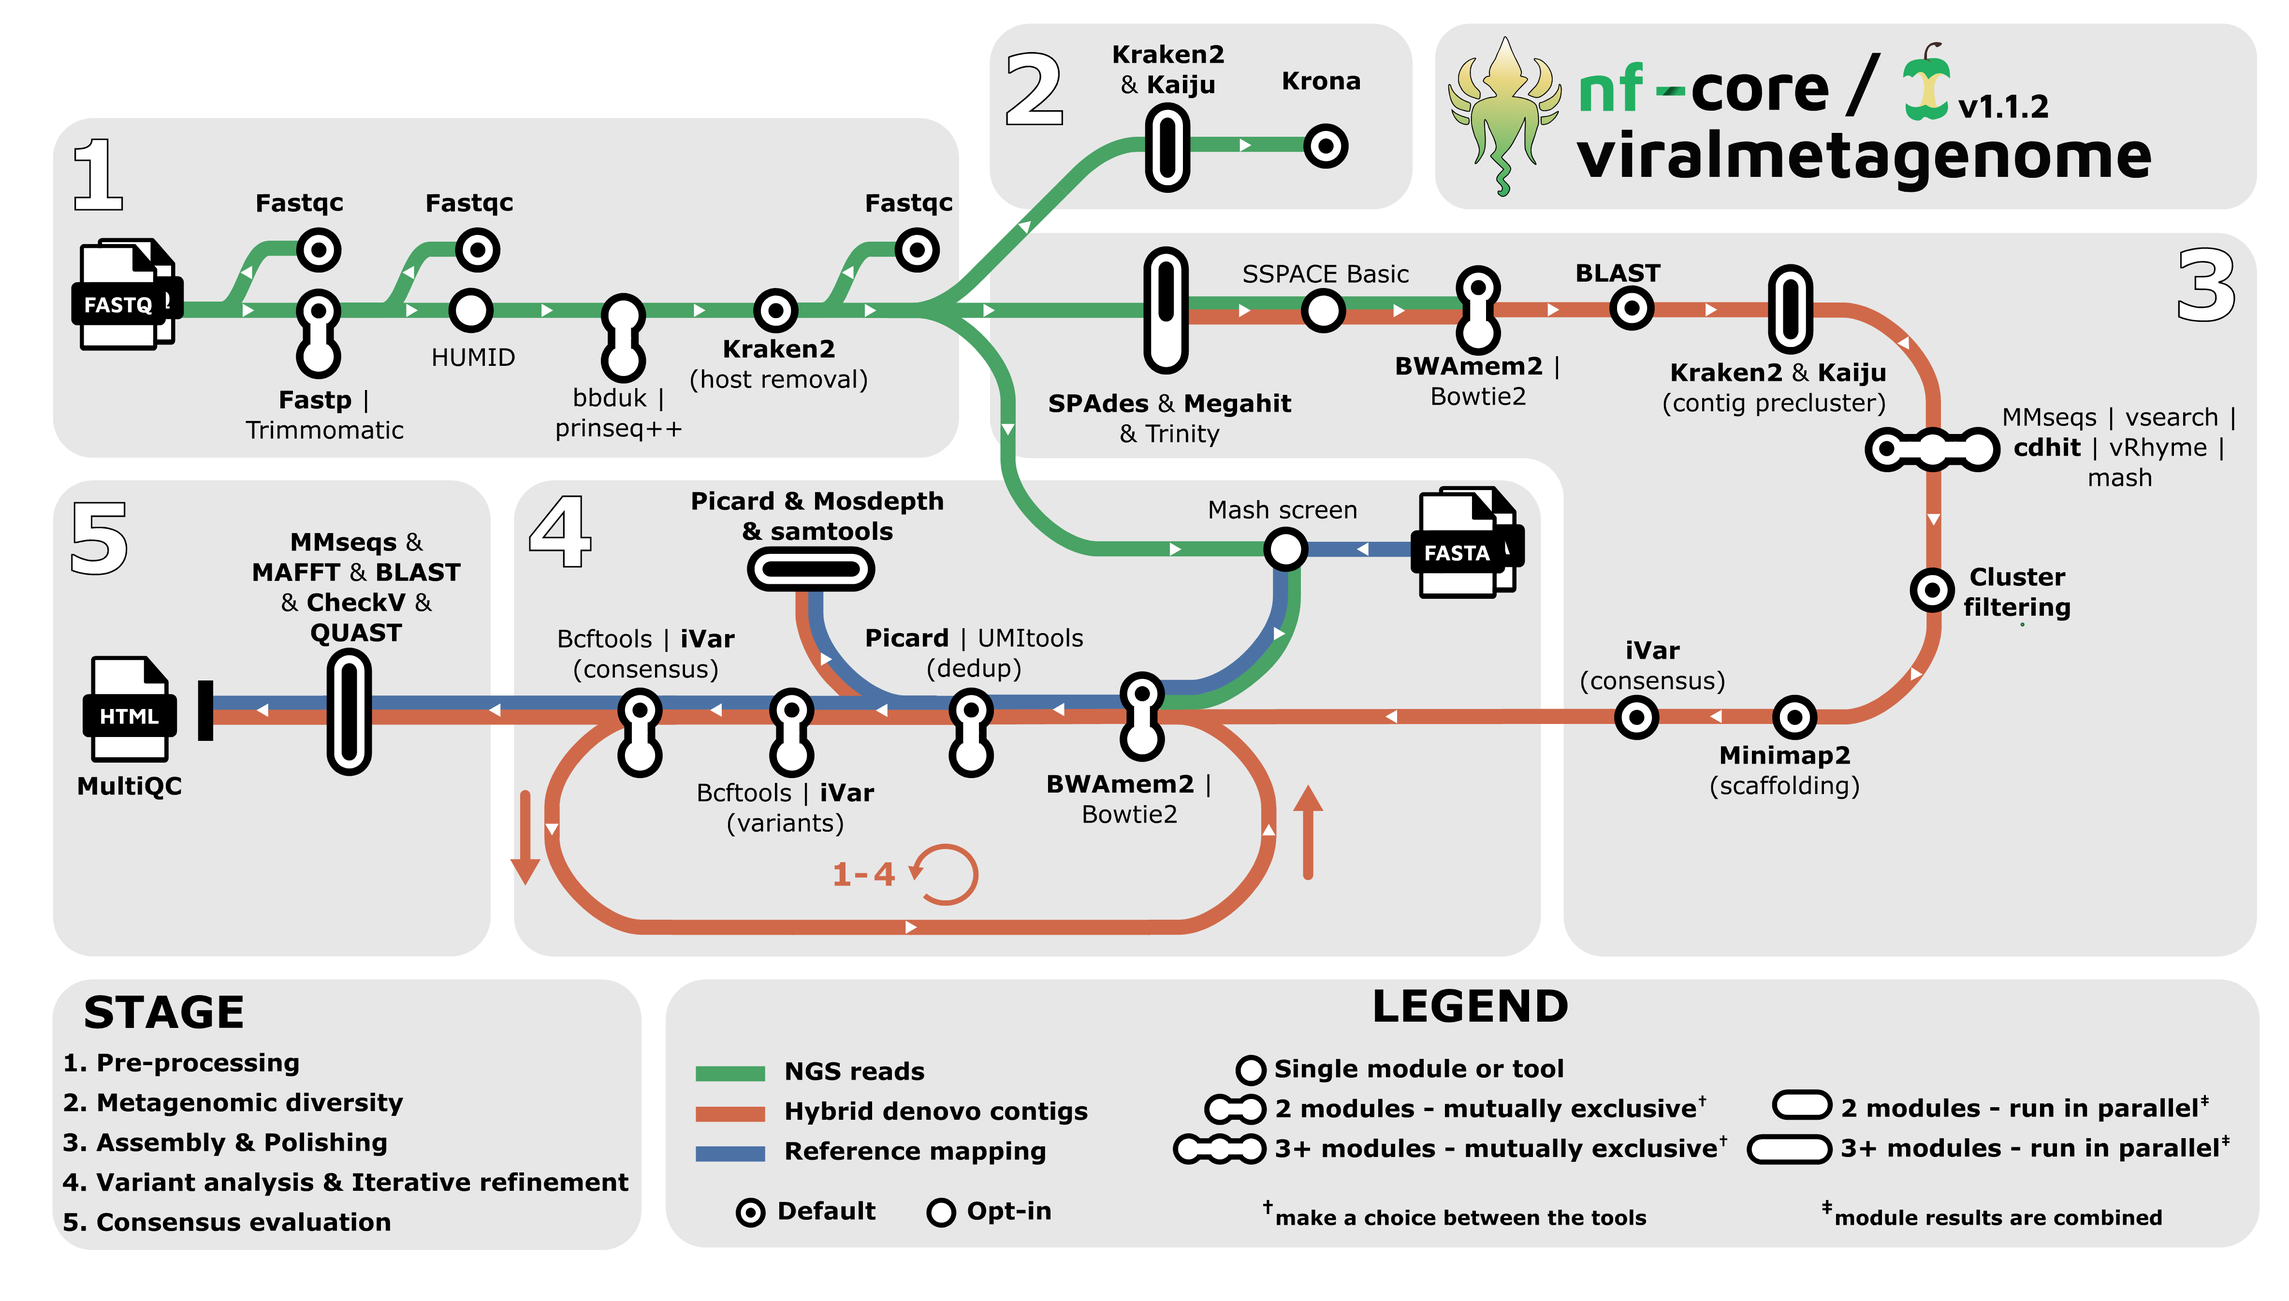
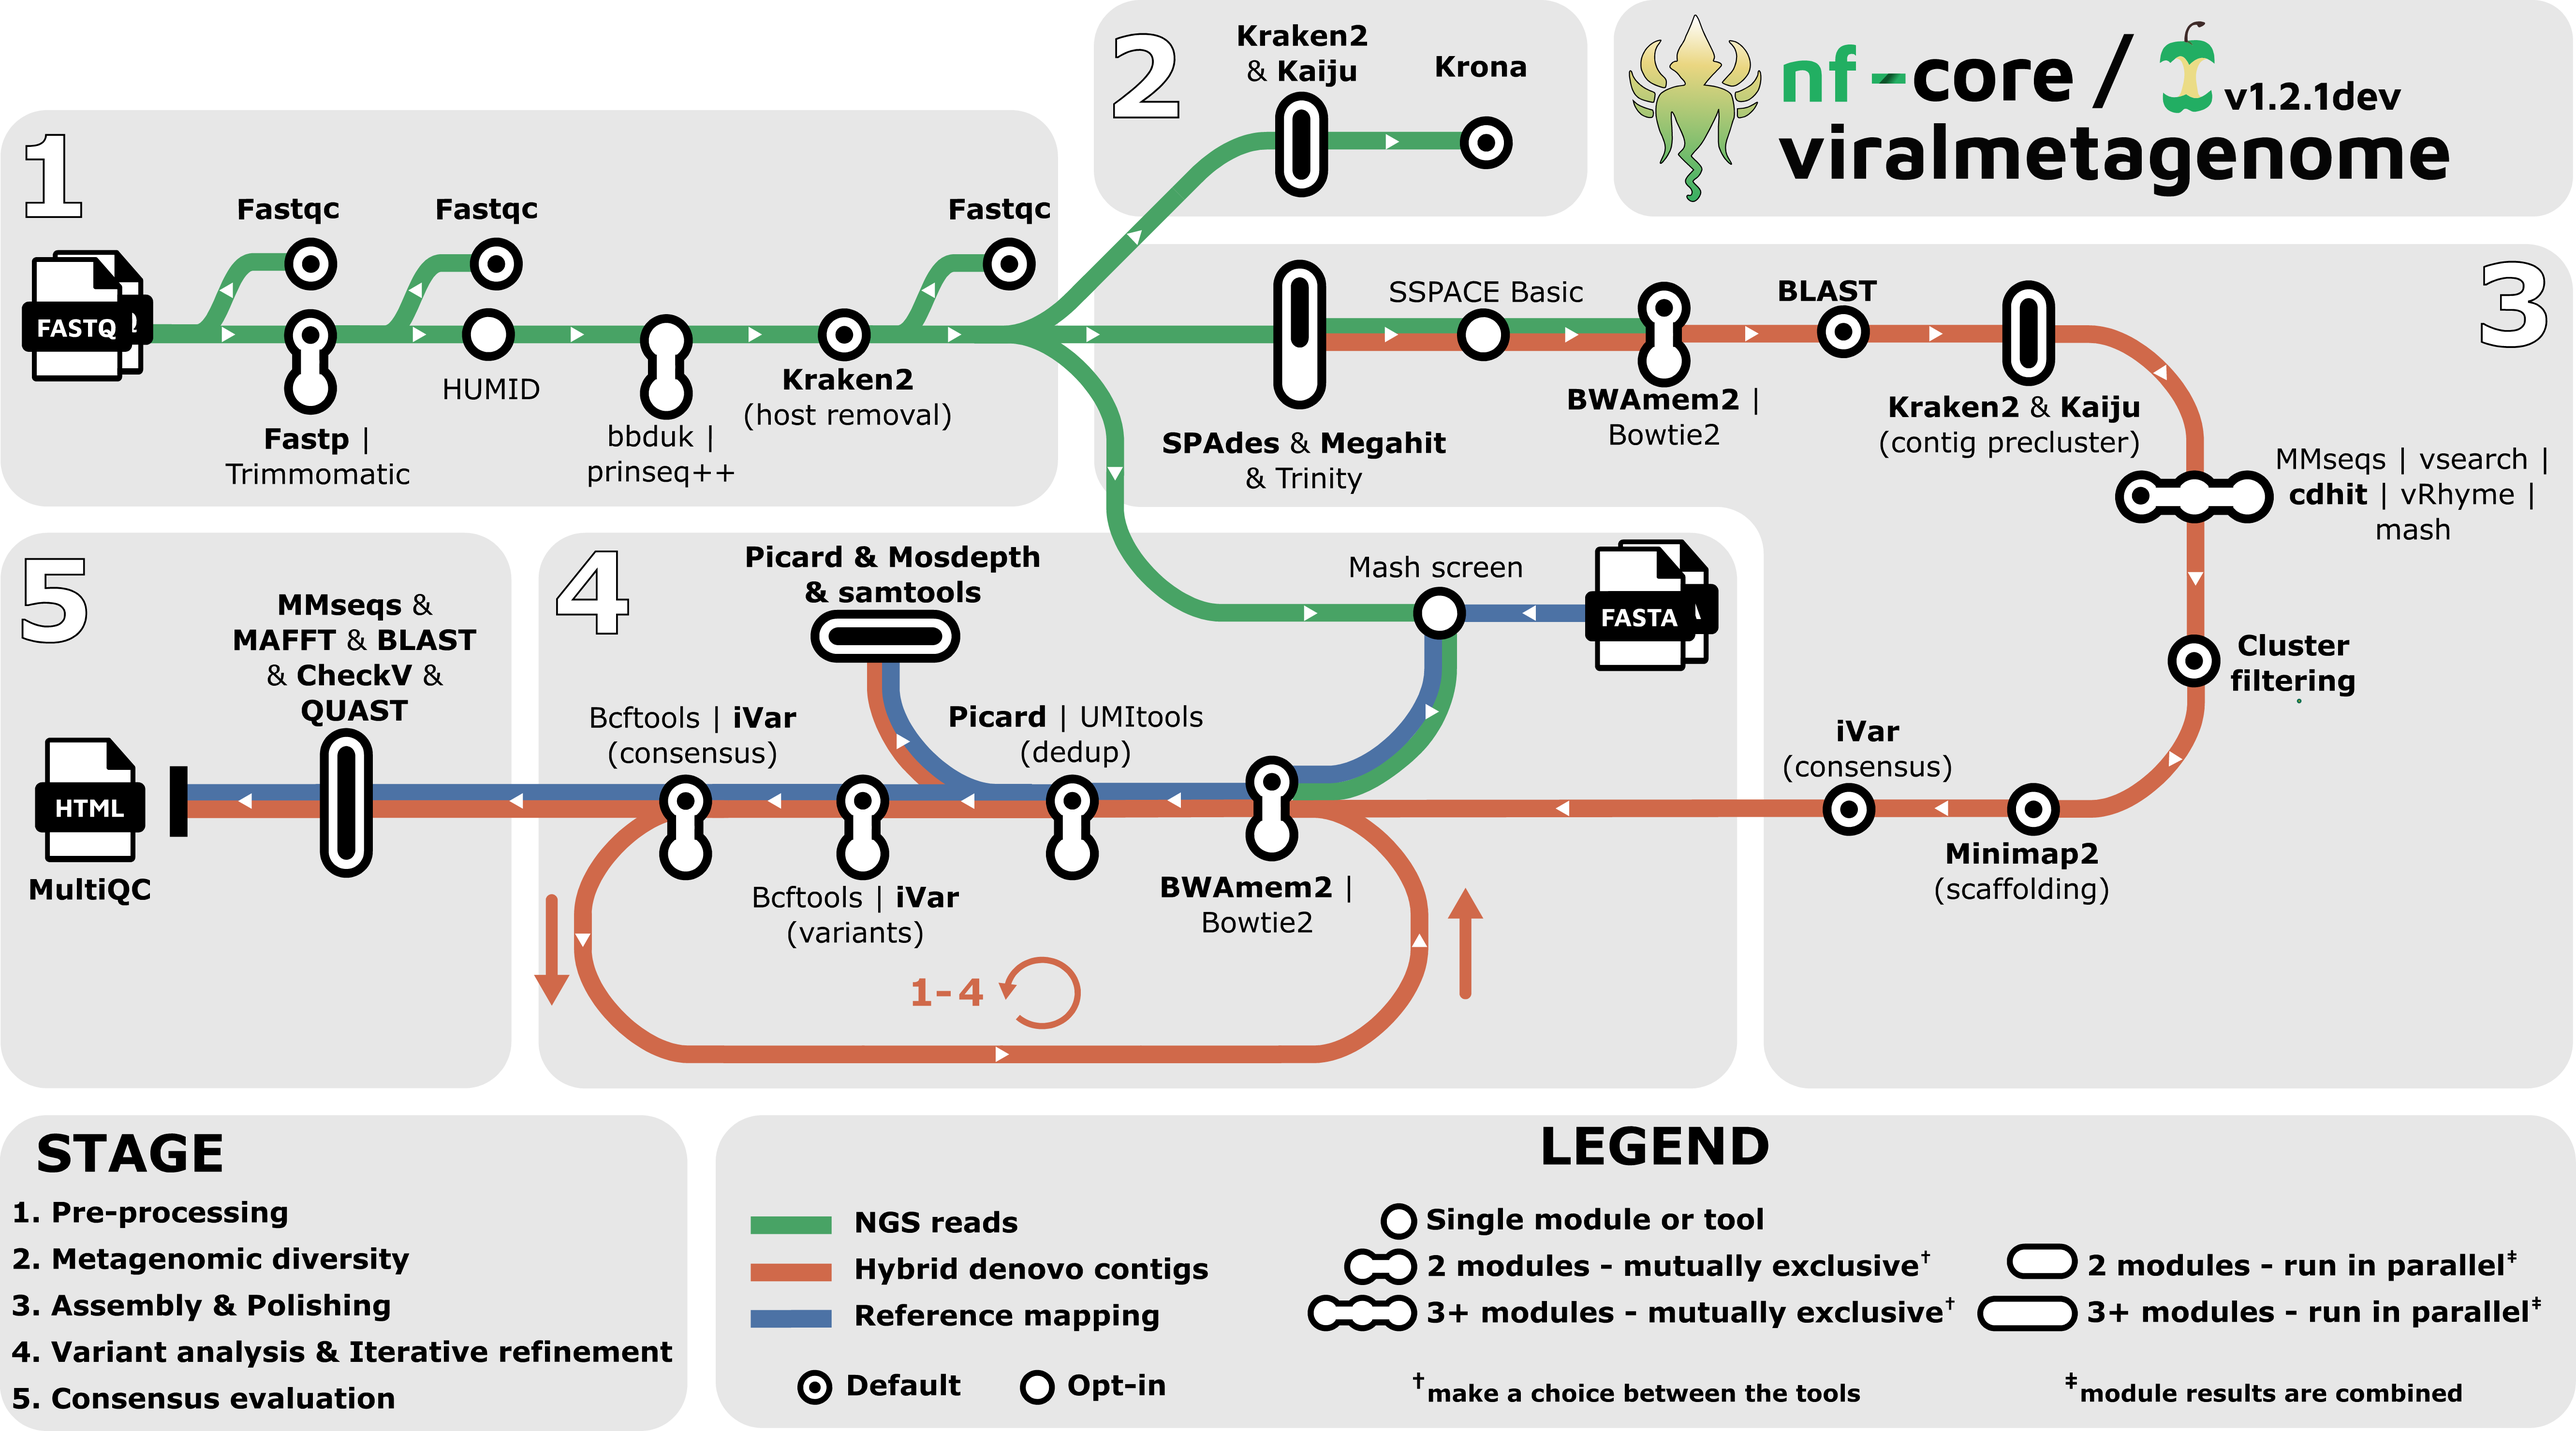
bump-versions

diff --git a/CHANGELOG.md b/CHANGELOG.md
@@ -3,7 +3,20 @@
 The format is based on [Keep a Changelog](https://keepachangelog.com/en/1.0.0/)
 and this project adheres to [Semantic Versioning](https://semver.org/spec/v2.0.0.html).
 
-## v1.1.2 - 2026-05-22
+## v1.2.1dev - YYYY-MM-DD
+
+### `Added`
+
+### `Fixed`
+
+### `Dependencies`
+
+### `Parameters`
+
+> **NB:** Parameter has been **updated** if both old and new parameter information is present.
+> **NB:** Parameter has been **added** if just the new parameter information is present.
+
+## v1.1.2 - 2026-06-03
 
 ### `Added`
 
